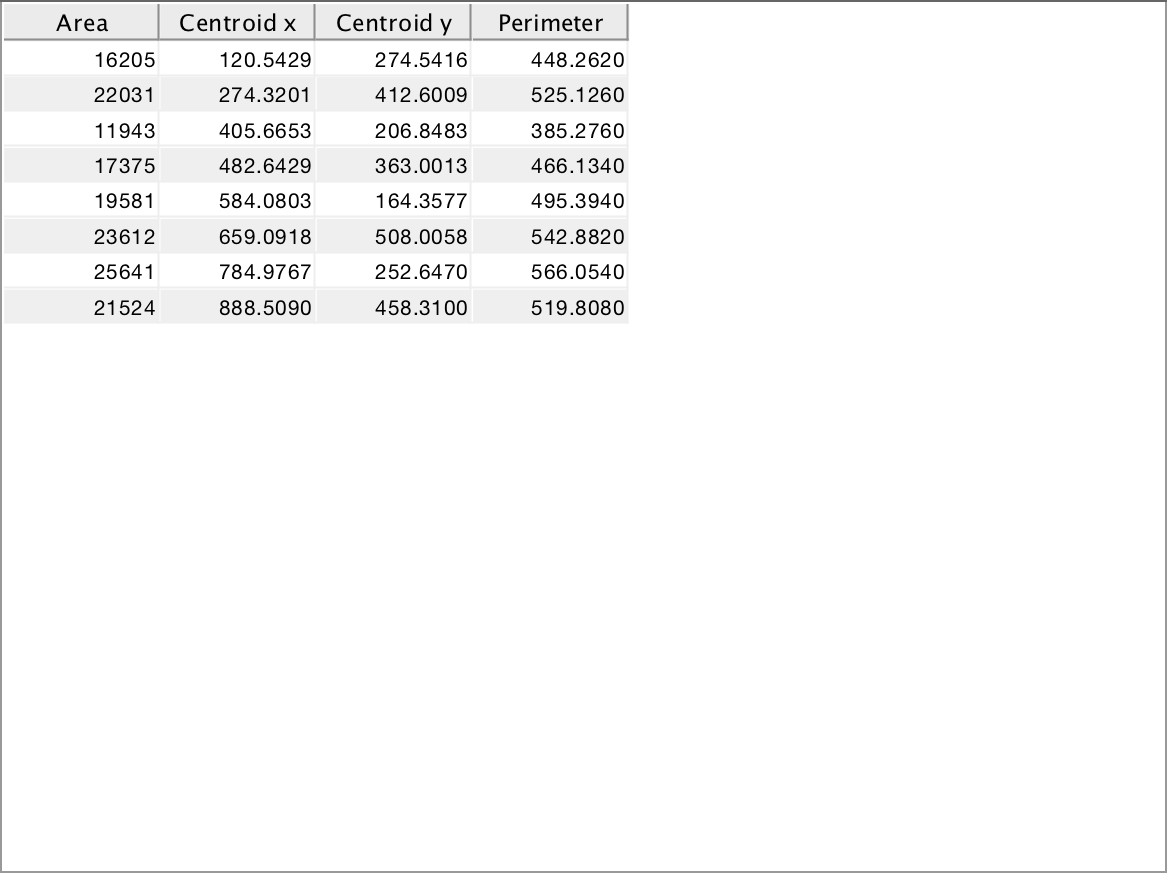
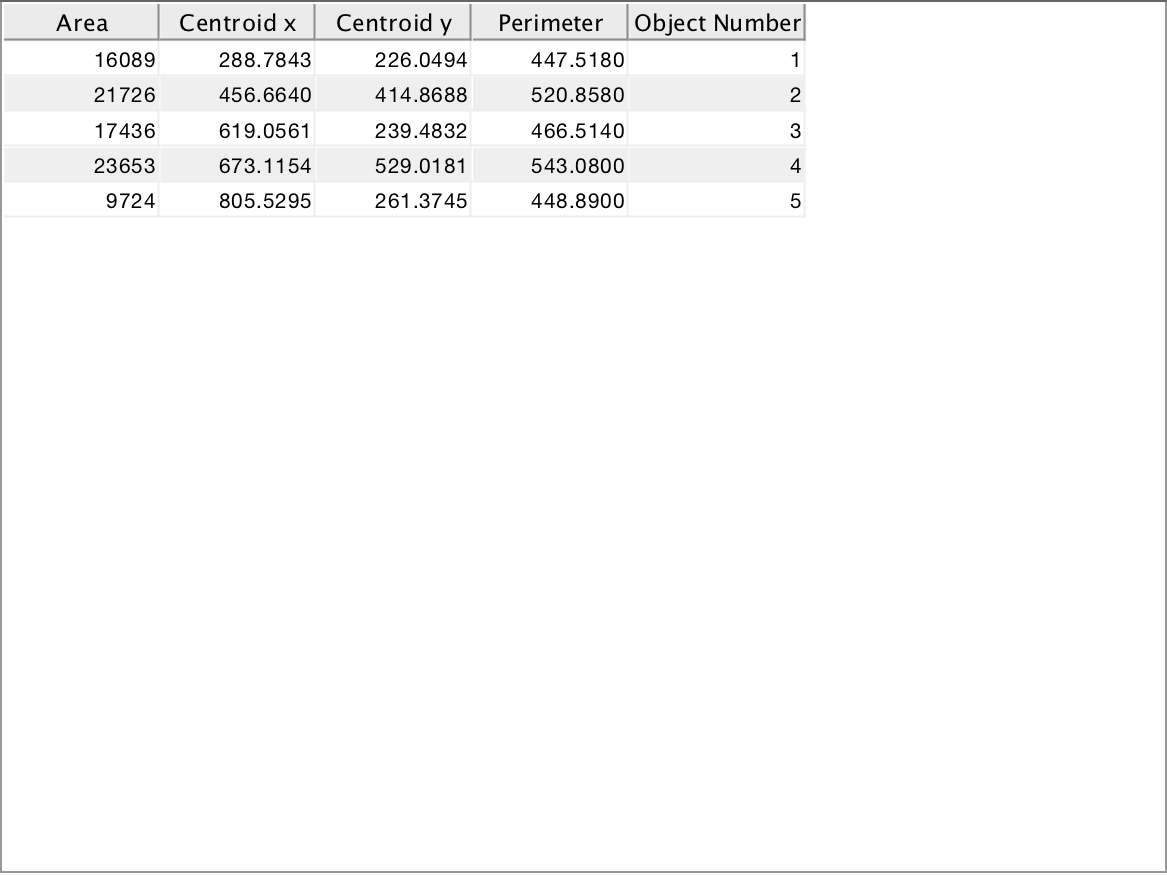
figures fixed

diff --git a/project_moedas.m b/project_moedas.m
@@ -1,6 +1,6 @@
 close all, clear all;
 
-orig = imread('Moedas1.jpg');
+orig = imread('Moedas2.jpg');
 
 %transform the image from rgb to grayscale
 gray = rgb2gray(orig);
@@ -30,17 +30,17 @@ BW = imdilate(BW, se2);
 stats = regionprops(lb, 'Centroid', 'Perimeter', 'Area');
 objectCount = size(stats,1);
 
-
 T = struct2table(stats);
-colnames= {'Area', 'Centroid x','Centroid y', 'Perimeter'};
+T.ObjectNumber = zeros(objectCount, 1);
+T.ObjectNumber(:) = 1:objectCount;
+
+
+colnames= {'Area', 'Centroid x','Centroid y', 'Perimeter', 'Object Number'};
 t = uitable('Data', T{:,:}, 'ColumnName', colnames,'RowName', T.Properties.RowNames, 'Units', 'Normalized','Position', [0, 0, 1, 1]);
 saveas(t,'table.png');
 close all;
 ff = imread('table.png');
-figure;imshowpair(label2rgb(lb), ff, 'montage');  title('Colored Objects with centroid');
-
-
-%imshow(label2rgb(lb));  title('Area, Centroid and Perimeter value');
+figure;imshowpair(label2rgb(lb), ff, 'montage');  title('Colored Objects with centroid                            Table with values');
 
 %for each object draw the centroid 
 hold on;
